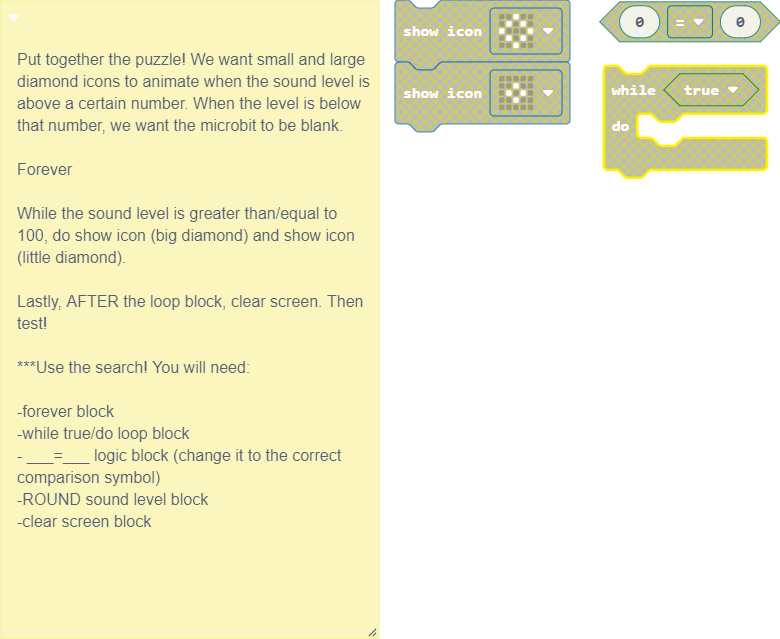
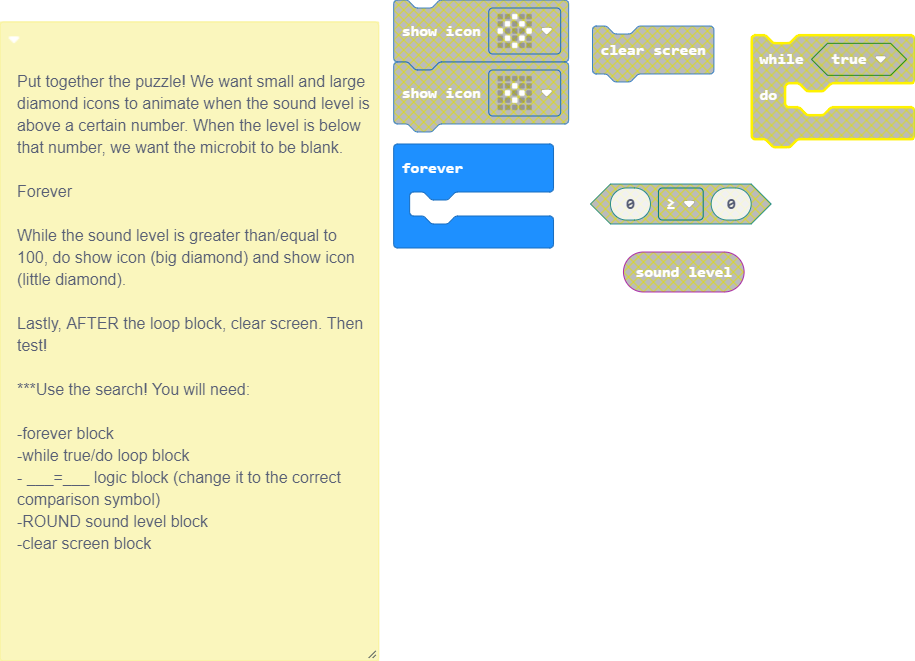
Update main.blocks, main.ts

Changed region(s): [[0.0, 0.0, 1.0, 1.0], [0.0, 0.5649, 0.3077, 0.5947]]

diff --git a/main.ts b/main.ts
@@ -19,3 +19,9 @@
  * 
  * -clear screen block
  */
+input.onSound(DetectedSound.Loud, function () {
+	
+})
+basic.forever(function () {
+	
+})
